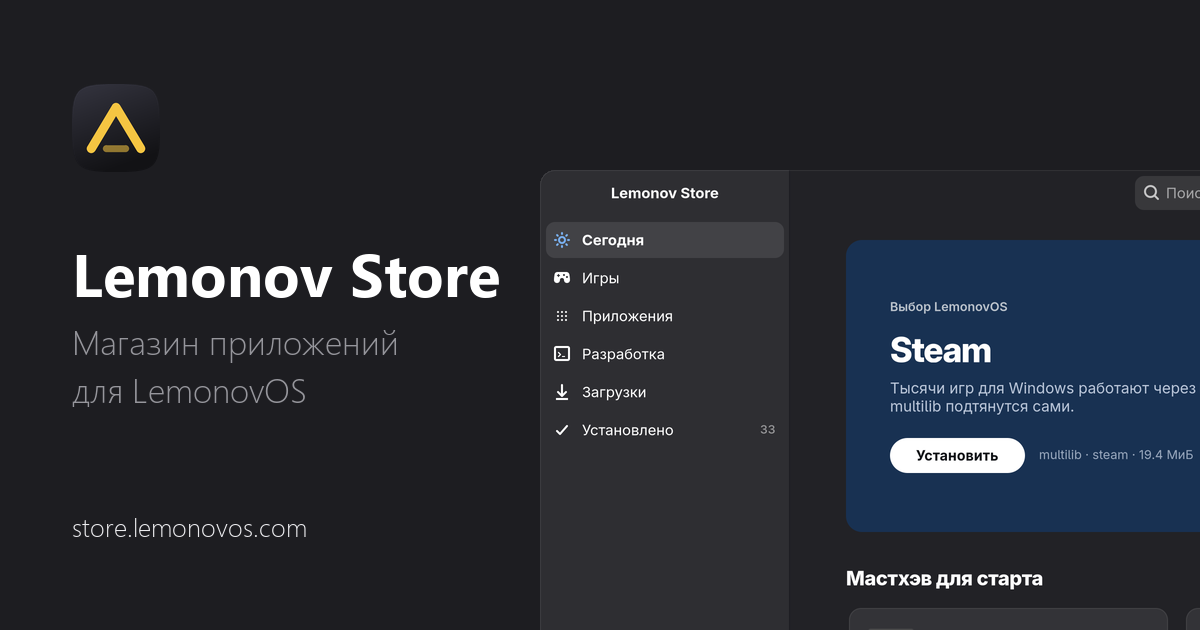
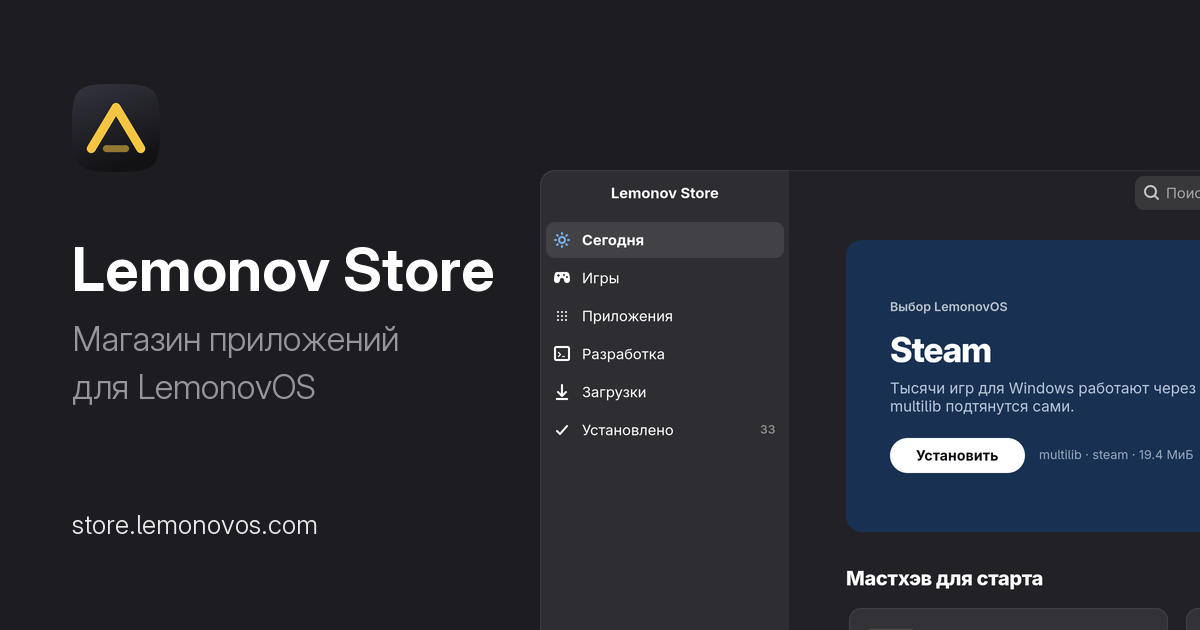
Шрифты: свободные шрифты в стилях и картинке для превью ссылок

diff --git a/legal.html b/legal.html
@@ -20,8 +20,8 @@
 <style>
 :root {
   --bg: #fbfaf9; --fg: #1b1b1f; --muted: rgba(27, 27, 31, .68); --line: rgba(0, 0, 0, .12); --soft: rgba(0, 0, 0, .045); --link: #1c64c4;
-  --sans: system-ui, -apple-system, "Segoe UI", Roboto, "Helvetica Neue", Arial, sans-serif;
-  --mono: ui-monospace, "SF Mono", "JetBrains Mono", Menlo, Consolas, monospace;
+  --sans: system-ui, "Adwaita Sans", Inter, "Noto Sans", sans-serif;
+  --mono: ui-monospace, "Adwaita Mono", "JetBrains Mono", "Noto Sans Mono", monospace;
 }
 :root[data-theme="dark"] { --bg: #1d1d21; --fg: #eeeef0; --muted: rgba(238, 238, 240, .7); --line: rgba(255, 255, 255, .14); --soft: rgba(255, 255, 255, .06); --link: #78aeed; }
 *, *::before, *::after { box-sizing: border-box; }

diff --git a/index.html b/index.html
@@ -28,8 +28,8 @@
 :root {
   --bg: #fbfaf9; --fg: #1b1b1f; --muted: rgba(27, 27, 31, .68); --line: rgba(0, 0, 0, .12); --soft: rgba(0, 0, 0, .045);
   --link: #1c64c4; --log-bg: #f3f2f0; --log-dim: #6b6b75; --log-acc: #1c71d8;
-  --sans: system-ui, -apple-system, "Segoe UI", Roboto, "Helvetica Neue", Arial, sans-serif;
-  --mono: ui-monospace, "SF Mono", "JetBrains Mono", Menlo, Consolas, monospace;
+  --sans: system-ui, "Adwaita Sans", Inter, "Noto Sans", sans-serif;
+  --mono: ui-monospace, "Adwaita Mono", "JetBrains Mono", "Noto Sans Mono", monospace;
 }
 :root[data-theme="dark"] {
   --bg: #1d1d21; --fg: #eeeef0; --muted: rgba(238, 238, 240, .7); --line: rgba(255, 255, 255, .14); --soft: rgba(255, 255, 255, .06);
